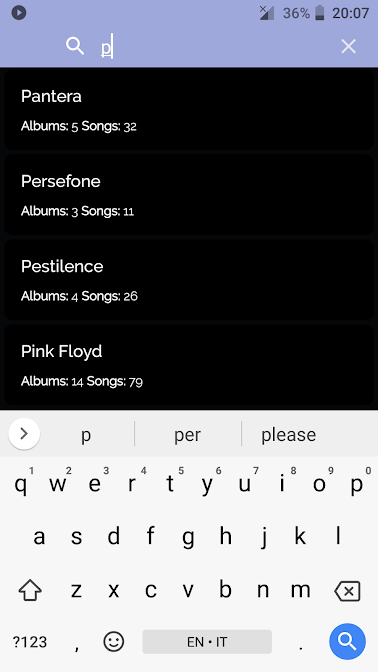
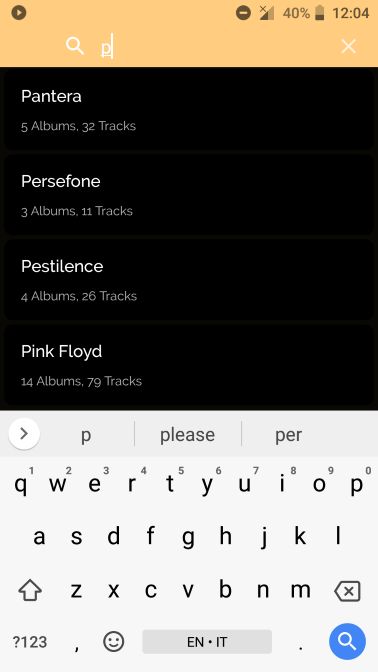
Bump to 3.5.2

diff --git a/README.md b/README.md
@@ -6,7 +6,7 @@
 
 ###### Very slim and nice music player with low memory footprint!
 ###### Now available in Kotlin language
-###### Current version: (101) 3.5.1
+###### Current version: (102) 3.5.2
 ###### Material Design Icon by Julian Javier Gomez, Axinen Design (https://plus.google.com/u/0/+AxinenDesign)
 
 
@@ -15,7 +15,7 @@
 
 # Screenshots
 
-![Screenshots](https://raw.githubusercontent.com/enricocid/Music-Player-GO/master/screenshots_v3-5-1.png) 
+![Screenshots](https://raw.githubusercontent.com/enricocid/Music-Player-GO/master/screenshots_v3-5-2.png) 
 
 
 # Download
